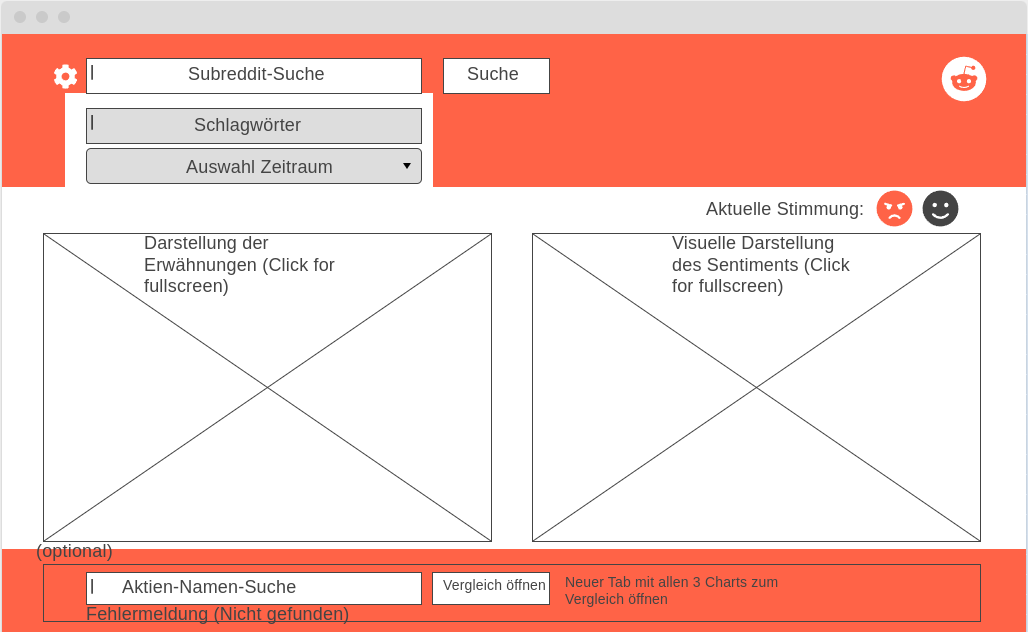
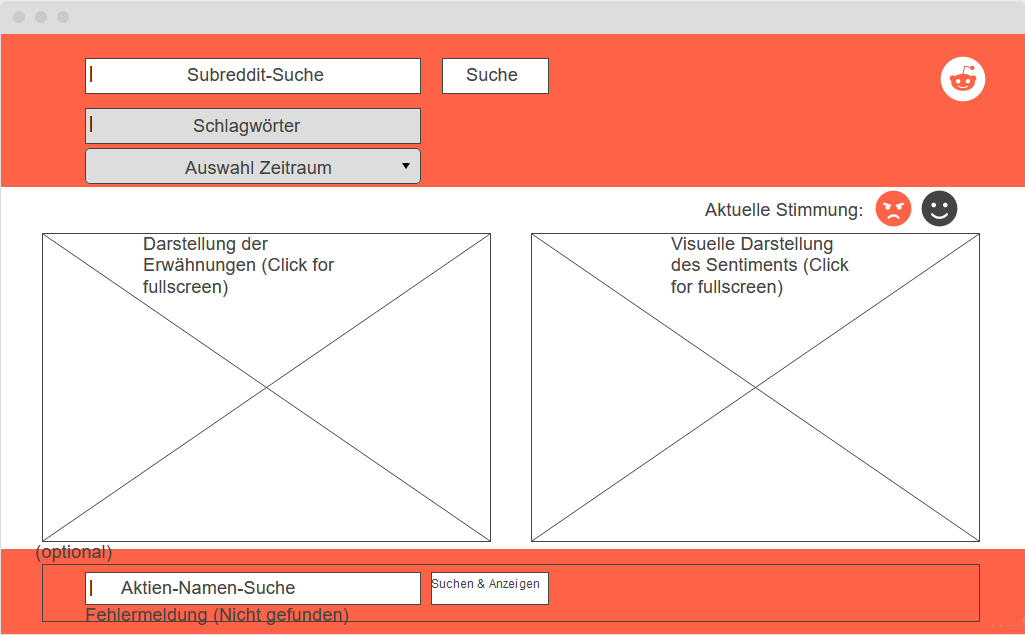
Wireframe update nach Teammeeting

diff --git a/sys-doc/frontend/README.md b/sys-doc/frontend/README.md
@@ -2,49 +2,3 @@
 
 [https://wireframe.cc/NUlNUR](https://wireframe.cc/NUlNUR)
 
-# Data-Specification
-
-### Suche Starten
-
-`GET : Parameter: subredit=, (optional)tags=, (optional)t_period=`
-<br>
-#### Response
-```
-{
-    mention: {
-        x: [],
-        y: [],
-    },
-    sentiment: {
-        x: [],
-        y: [],
-    },
-    current_sentiment: 0,
-}
-```
-
-
-### Aktien-Suche
-
-`GET : Parameter: share=`
-<br>
-#### Response
-```
-{
-    share_history: {
-        x: [],
-        y: [],
-    },
-}
-```
-
-
-
-### Fehler bei Request
-
-```
-{
-    error: 404,
-    message: '',
-}
-```
